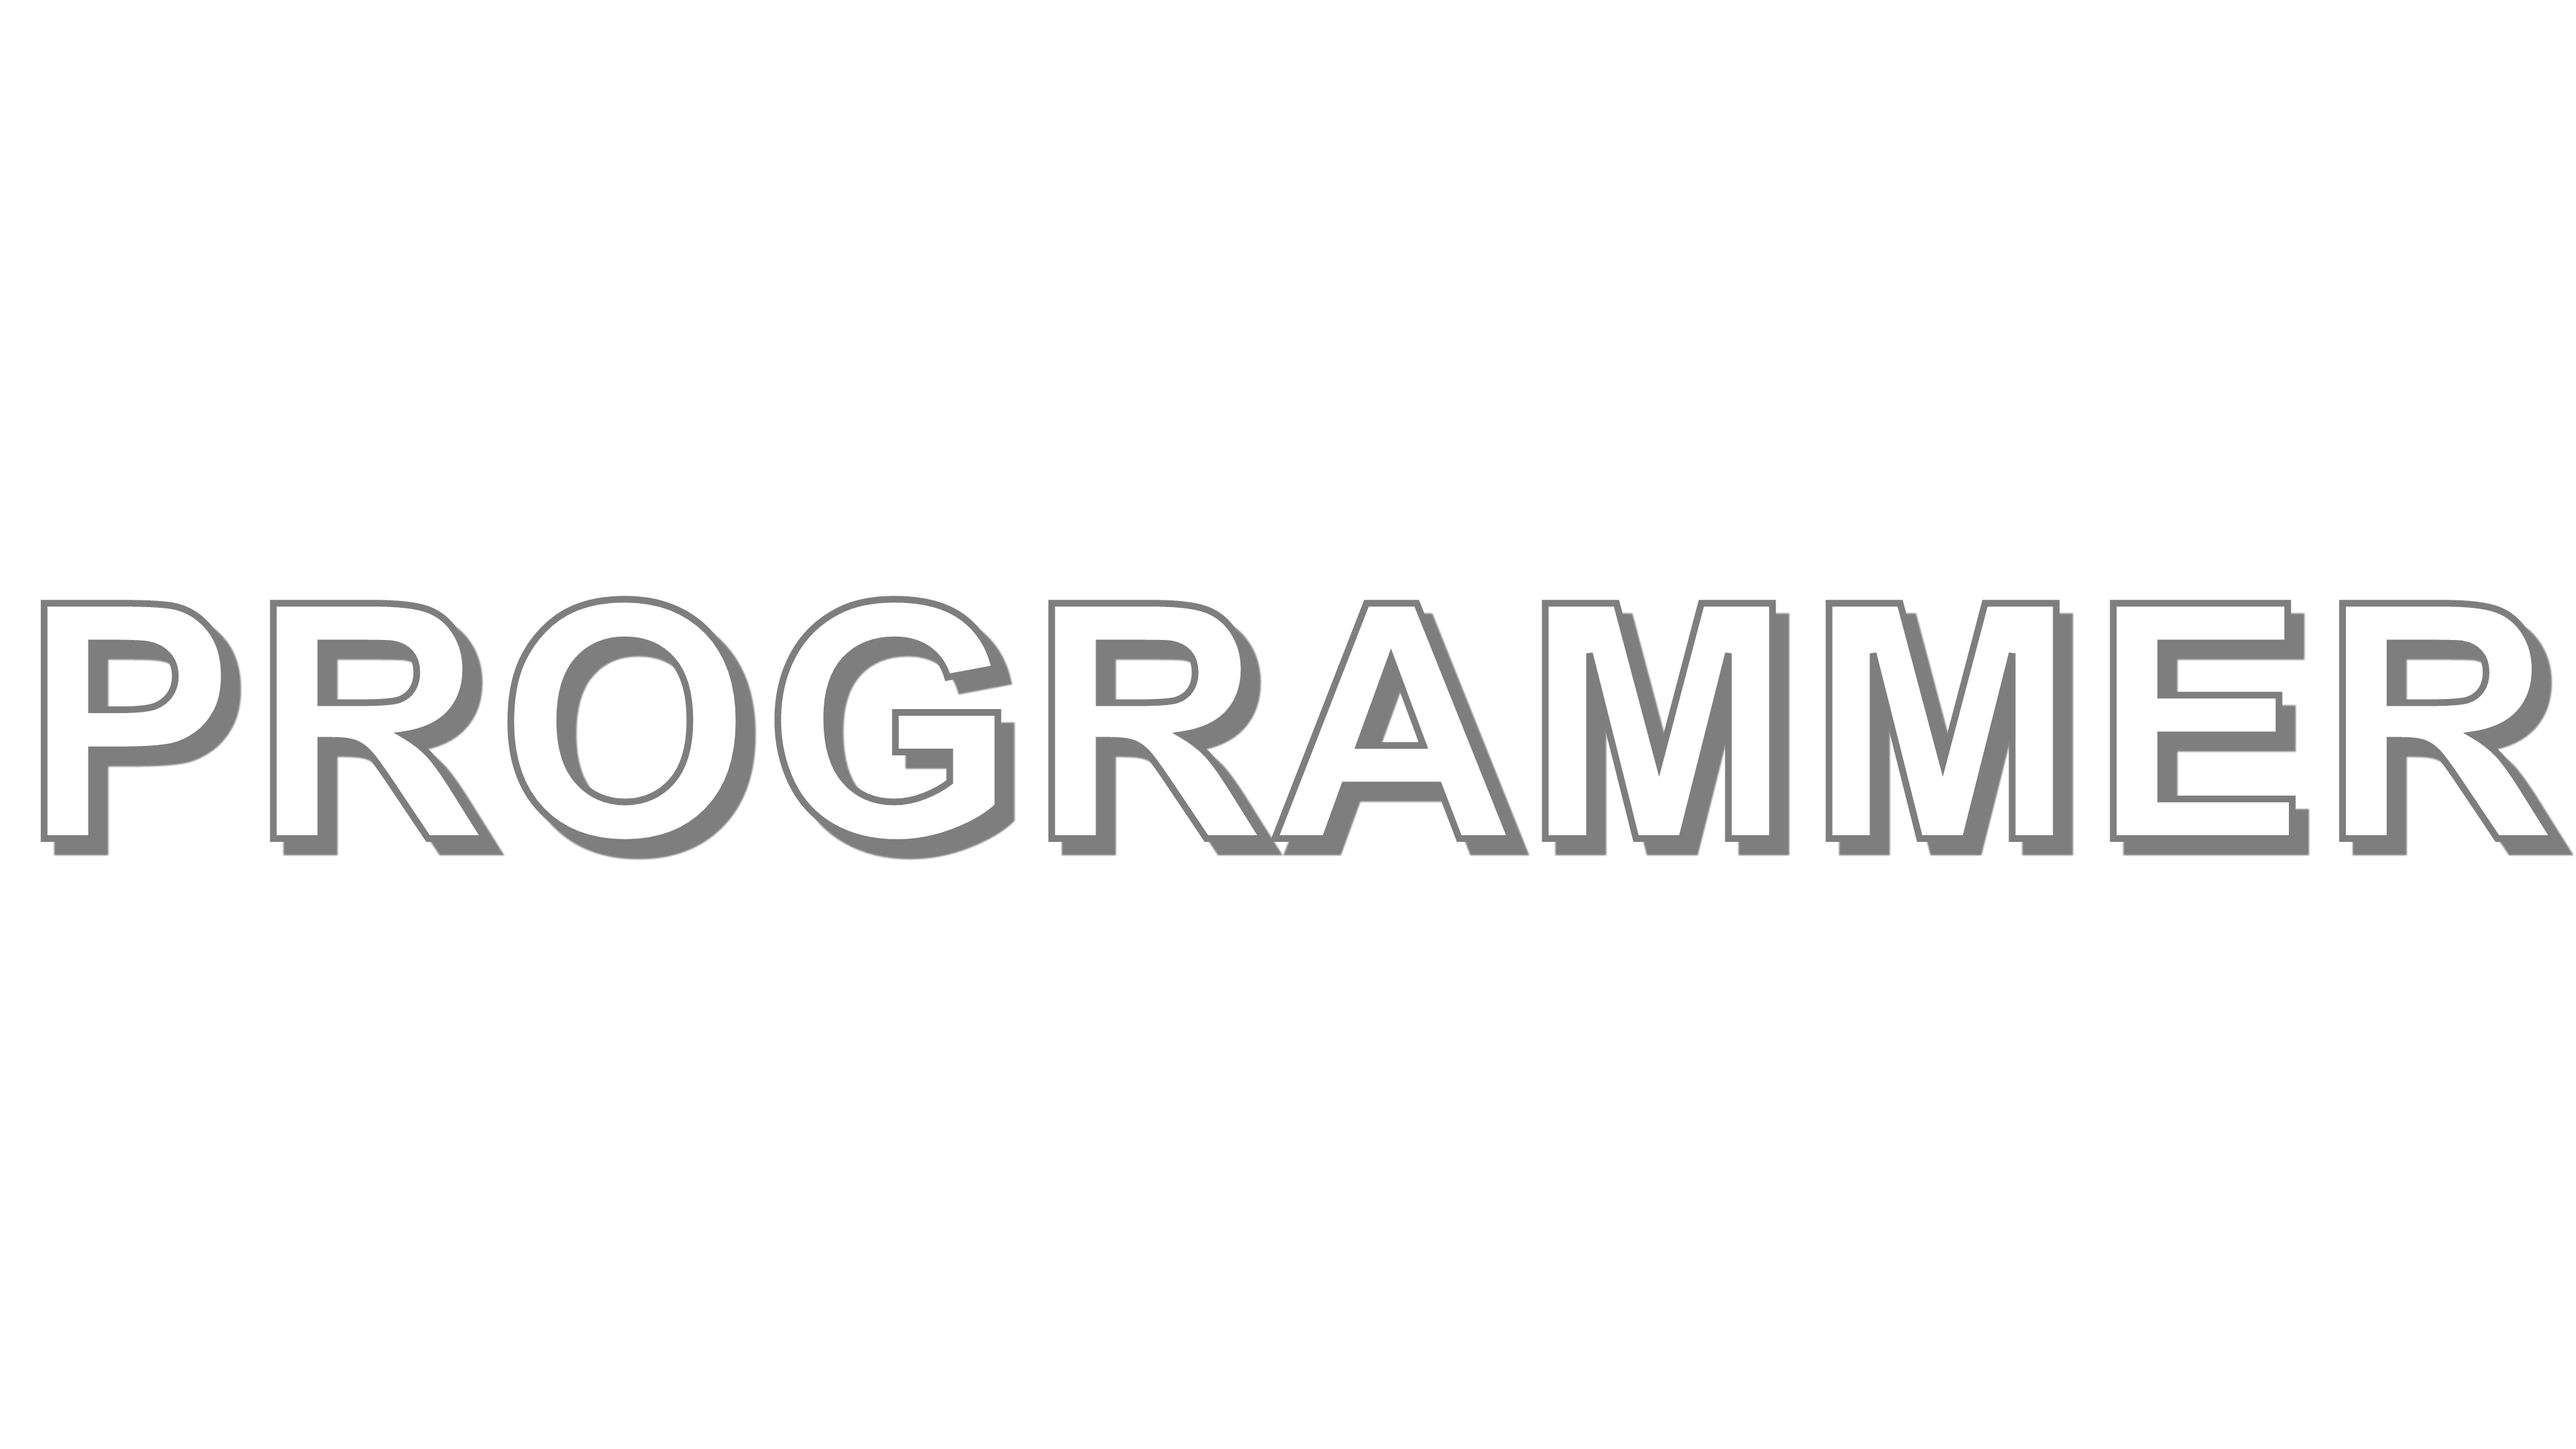
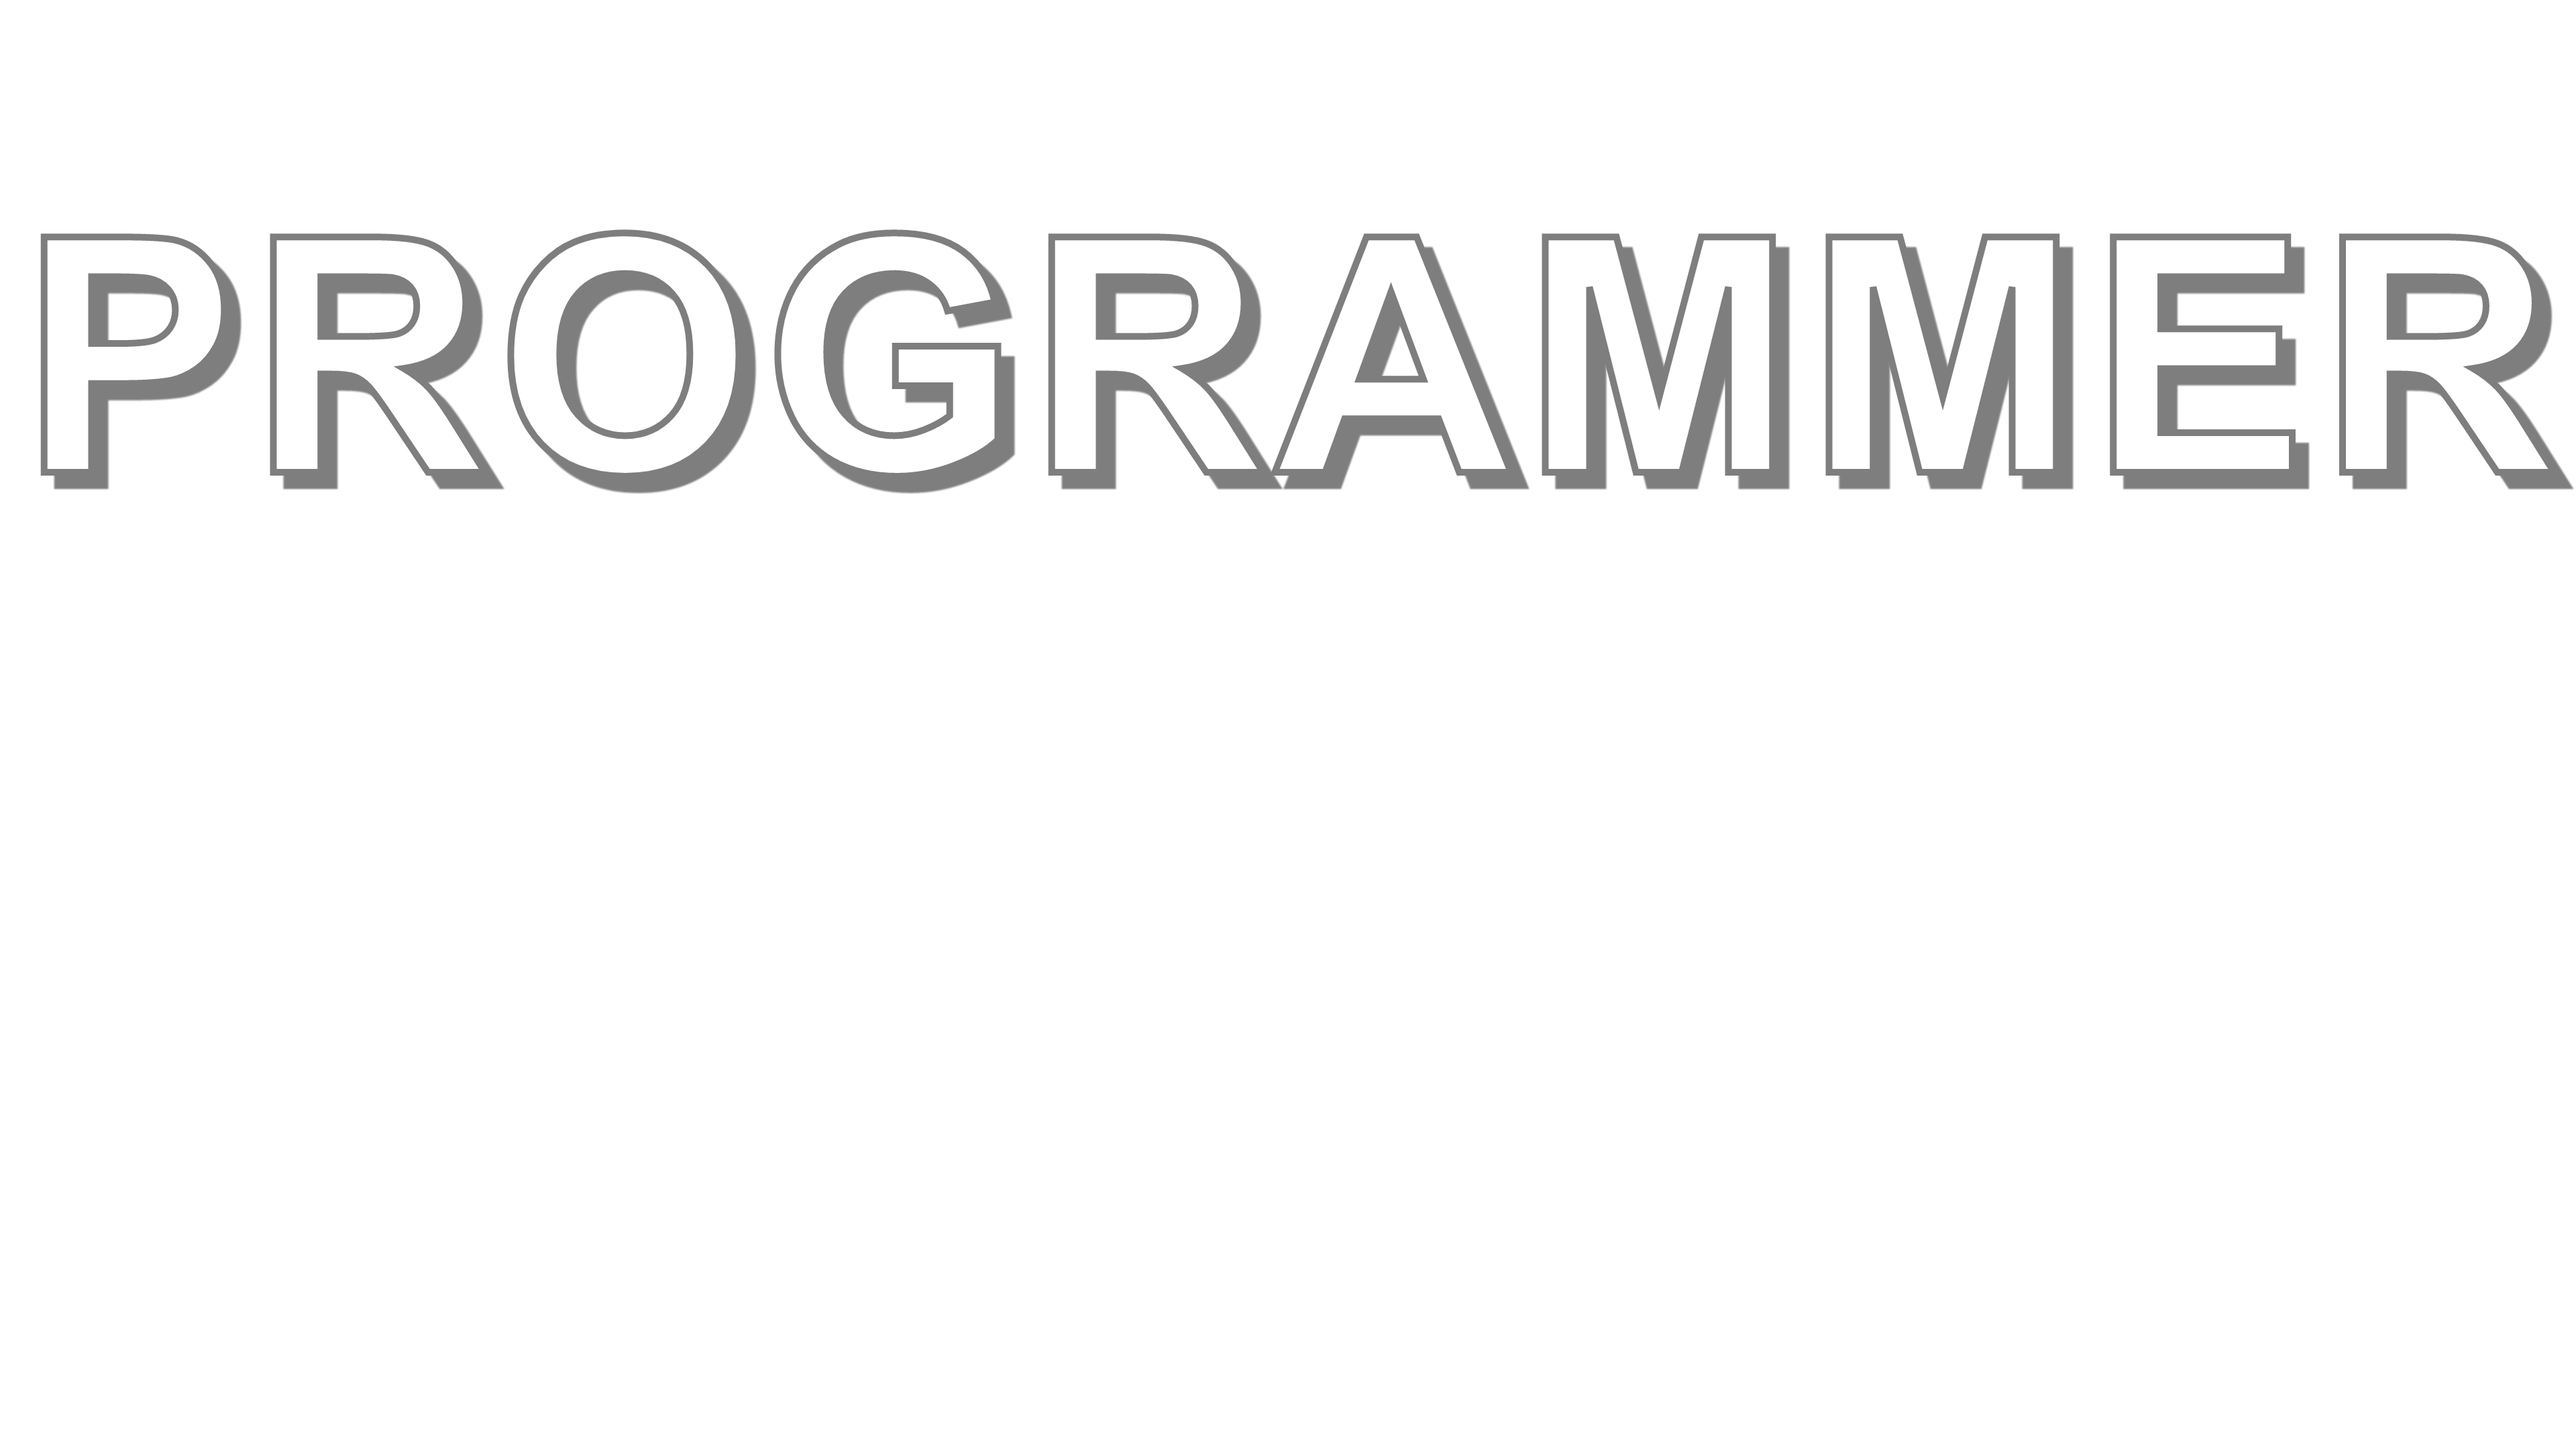
:3

Changed region(s): [[0.0, 0.1551, 1.0, 0.3412], [0.0, 0.4032, 1.0, 0.5894]]

diff --git a/style/main.css b/style/main.css
@@ -41,8 +41,9 @@ nav a{
 .welcome{
 	height: 90vh;
 	display: flex;
-	background-image: url("../imgs/programmer-bg.png");
-	
+	background-image: url("../imgs/programmer-bg2.png");
+	background-size: cover;
+	background-position: top;
 	align-items: center;
 }
 .welcome-panel{
@@ -71,7 +72,7 @@ nav a{
 .welcome-intro{
 	text-align: center;
 	font-size: 20px;
-	background-color: rgba(255,255,255, 0.8);
+	background-color: rgba(255,255,255, 0.95);
 	padding:8px;
 	box-shadow:5px 5px 8px;
 	border-radius: 3px;
